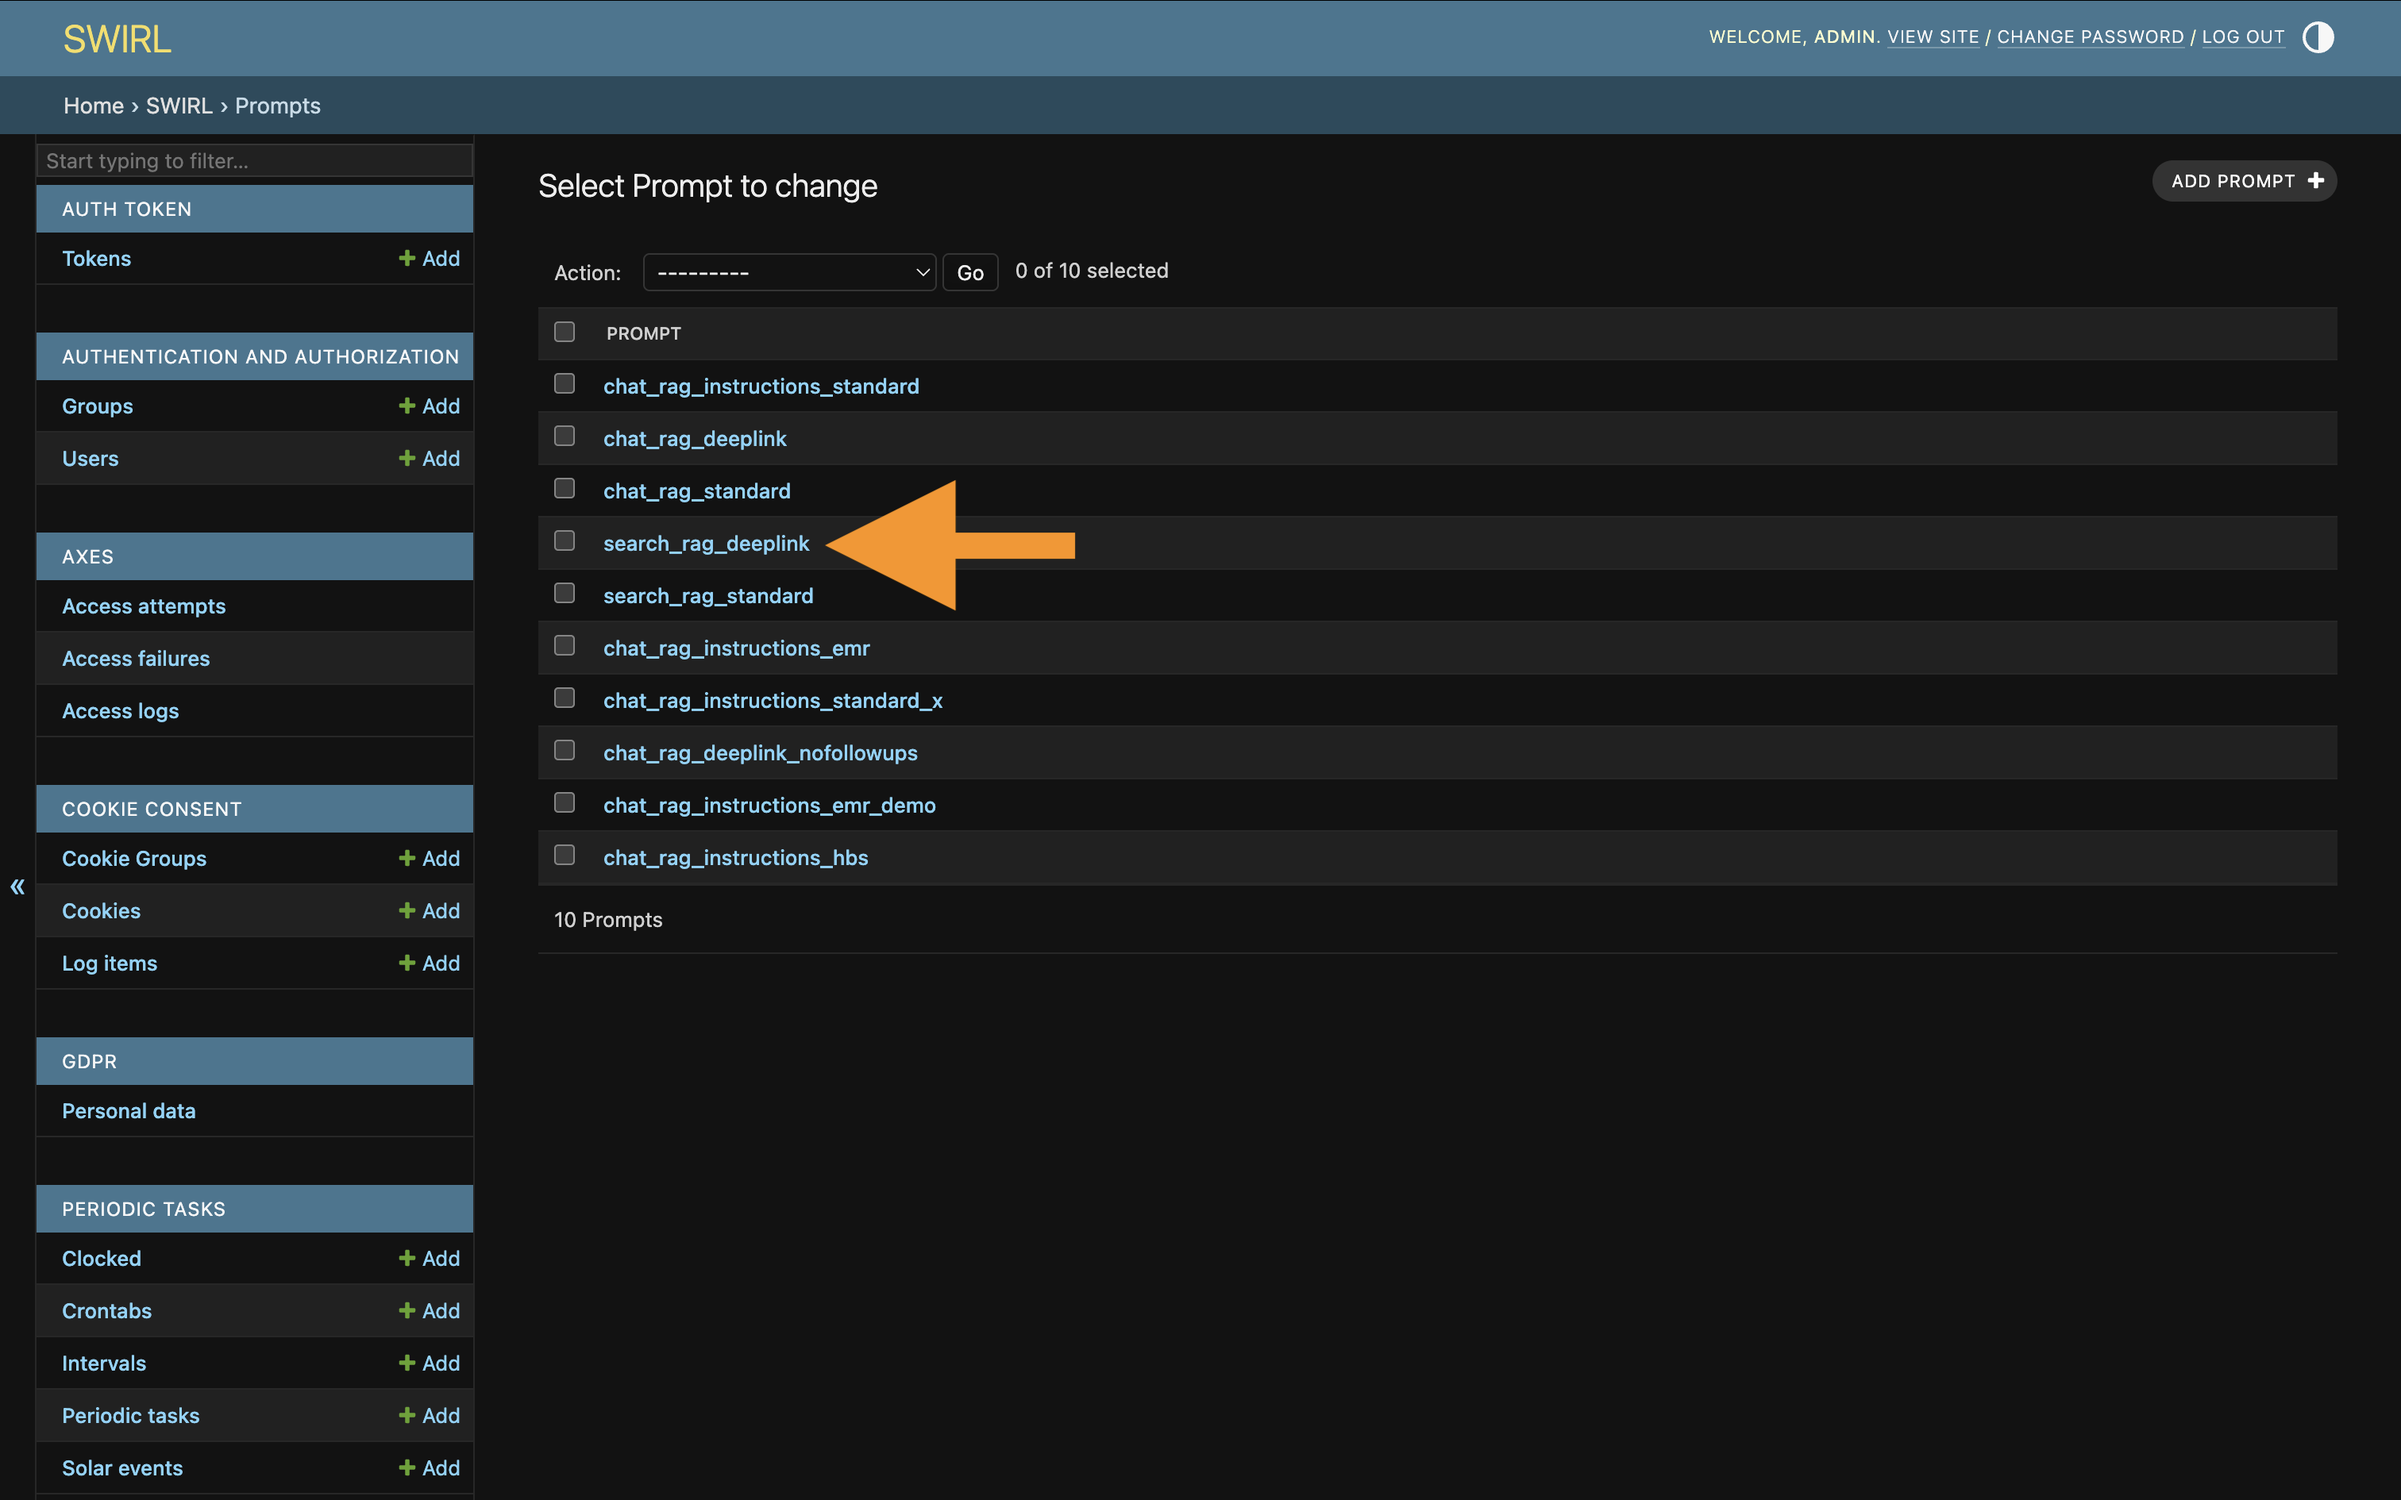
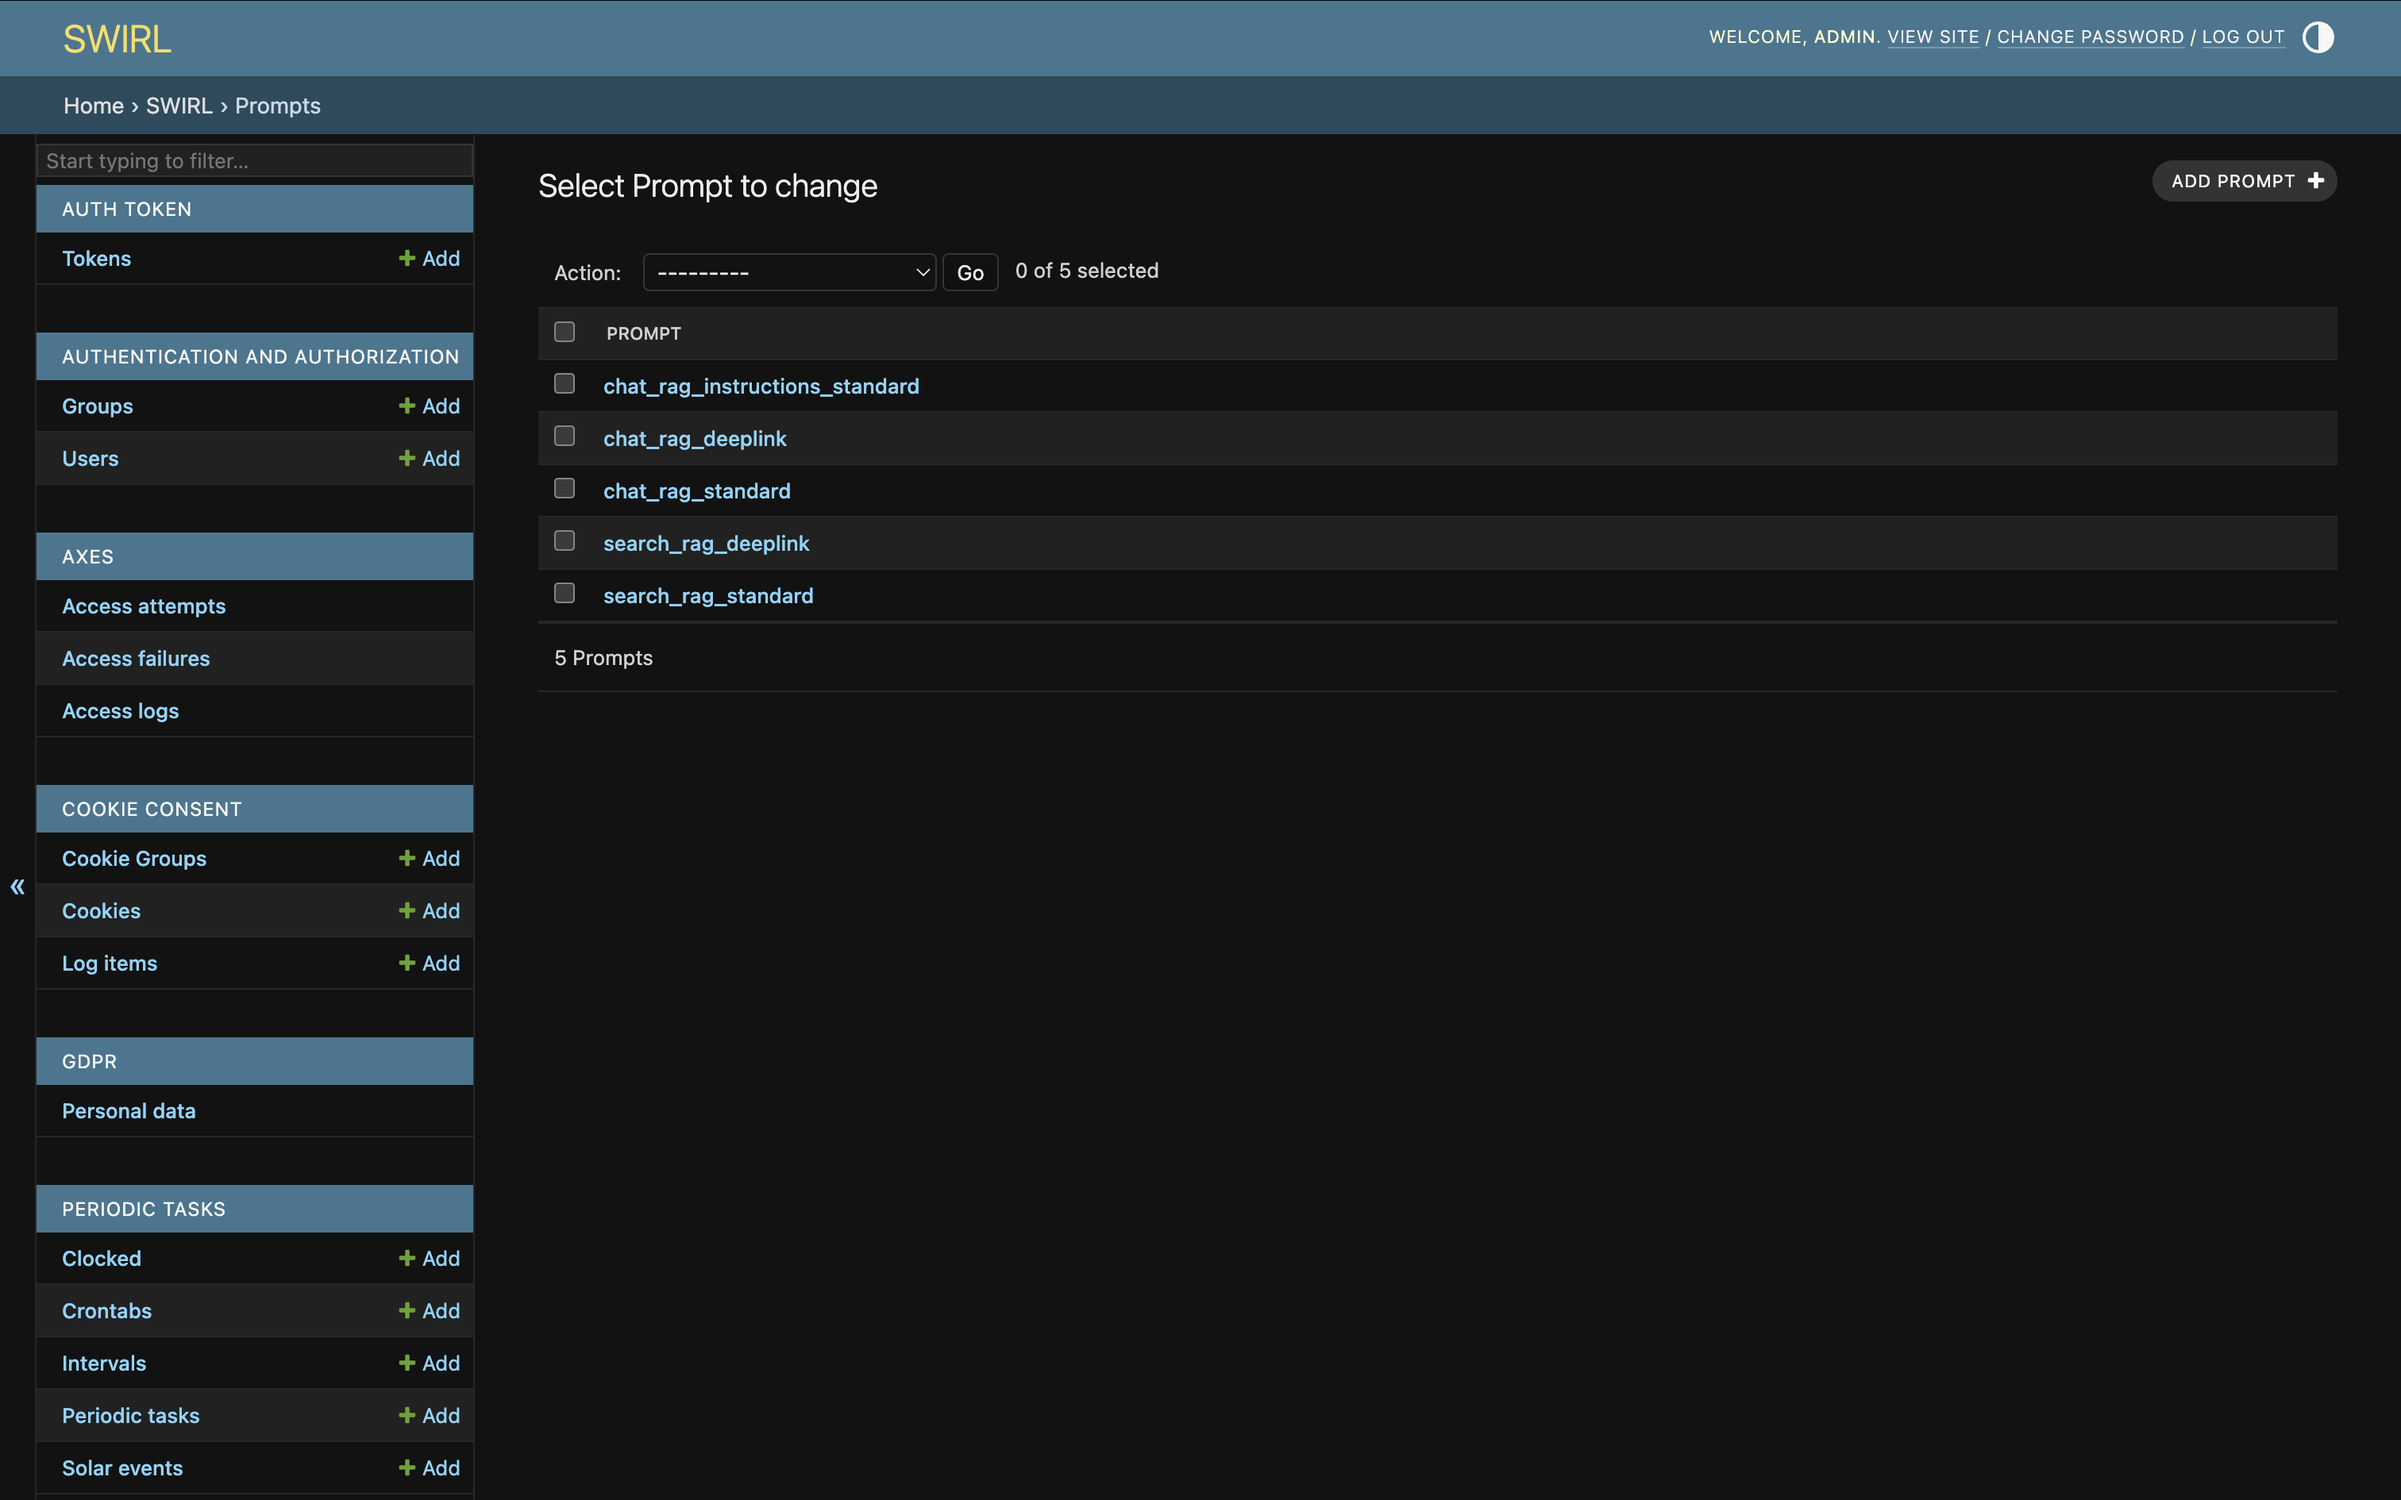
Use SWIRL console, revise prompts, minor edits DS-5337

diff --git a/docs/AI-Search.md b/docs/AI-Search.md
@@ -65,7 +65,19 @@ To connect SWIRL to your **Microsoft 365 (M365) tenant**, follow the instruction
 
 To integrate SWIRL with an Identity Provider (IDP) or Single Sign-On (SSO) system, you need to configure an **Authenticator object**.
 
-To manage authenticators, go to: [http://localhost:8000/swirl/aiproviders](http://localhost:8000/swirl/aiproviders) (default local installation).
+### Managing Authenticators
+
+Use the Admin Console to view, edit, add or delete authenticators, here: [http://localhost:8000/admin/swirl](http://localhost:8000/admin/swirl)
+
+![SWIRL Admin Console with Authenticators selected](images/swirl_admin_console_swirl_auth_selected.png)
+
+Click on "Authenticators" as shown to view the list of available ones, or add a new one:
+![SWIRL Admin Console, Authenticators list](images/swirl_admin_console_swirl_auth_list.png)
+
+Click any of the Authenticators shown in the list to view or edit it. For example, here's the default Microsoft authenticator:
+![SWIRL Admin Console, Authenticators list](images/swirl_admin_console_swirl_auth_microsoft.png)
+
+Click the "SAVE" button at the bottom of the page to commit changes. 
 
 **Authenticator Fields**
 
@@ -108,12 +120,10 @@ GAI/LLMs in SWIRL serve four distinct roles:
 
 ## Managing AI Providers
 
-To manage AI providers (view, edit, add, or delete), use the Admin Console: <http://localhost:8000/admin/>
+Use the Admin Console to view, add, edit or delete AI Providers, here: <http://localhost:8000/admin/swirl>
+![SWIRL Admin Console top level with AIProviders highlighted](images/swirl_admin_console_swirl_aip_selected.png)
 
-![SWIRL Admin Console top level with AIProviders highlighted](images/swirl_admin_console_aip.png)
-
-Click on AIProviders as shown above to access the full list:
-
+Click "AIProviders" as shown to access the full list:
 ![SWIRL Admin Console viewing list of AIProviders](images/swirl_admin_console_aip_list.png)
 
 ## Supported Generative AI (GAI) and LLMs
@@ -138,12 +148,10 @@ For assistance with any of these or additional models, please [contact support](
 
 ## Editing AI Providers
 
-From the Admin Console as shown above, click on an AIProvider to edit it:
-
+From the [Admin Console](http://localhost:8000/admin/swirl) as shown above, click "AIProviders" to view the list of all available providers. Then, click on a specific AIProvider to edit it:
 ![SWIRL Admin Console viewing list of AIProviders](images/swirl_admin_console_aip_list_selected.png)
 
 This will bring up an edit form:
-
 ![SWIRL Admin Console editing an AIProvider](images/swirl_admin_console_edit_aip.png)
 
 Click the "SAVE" button at the bottom of the page to commit changes you make. 
@@ -167,12 +175,10 @@ To switch the provider for a given role, use the `active` property. Only one AIP
 
 ### Via the Admin Console
 
-From the Admin Console, click on AIProviders as shown above. Then, click "Add AIProvider": 
-
+From the [Admin Console](http://localhost:8000/admin/swirl), click on AIProviders as shown above. Then, click "Add AIProvider": 
 ![Admin Console showing AIProvider list with Add button highlighted](images/swirl_admin_console_aip_add.png)
 
-This will bring up a blank form for a new AIProvider. 
-
+This will bring up a blank form for a new AIProvider:
 ![Admin Console showing new AIProvider form](images/swirl_admin_console_aip_new.png)
 
 Fill out the form and click the "SAVE" button at the bottom.
@@ -292,27 +298,29 @@ Use the [Customizing Prompts](#customizing-the-ai-search-rag-prompt) procedure, 
 The following procedure below below to copy the standard prompts, modify them, then make them active. 
 New prompts won't be disturbed when SWIRL upgrades.
 
-1. Open the [Admin Console]([http://localhost:8000/admin) and click `Prompts` near the bottom of the page:
-![SWIRL Admin Console showing list of prompts](images/swirl_admin_console_prompts_list.png)
+1. Open the Admin Console here: <http://localhost:8000/admin/swirl> 
 
-2. Click the `search_rag_standard` or, if using [Deep Linking](./User-Guide-Enterprise.md#deep-linked-citations) `search_rag_deeplink` prompt. 
+2. click `Prompts` near the bottom of the page:
+![SWIRL Admin Console showing list of prompts](images/swirl_admin_console_swirl_prompts_selected.png)
+
+3. Click the `search_rag_standard` or, if using [Deep Linking](./User-Guide-Enterprise.md#deep-linked-citations) `search_rag_deeplink` prompt. 
 ![SWIRL Admin Console showing list of prompts with one selected](images/swirl_admin_console_prompts_list_selected.png)
 
-3. Using the form, set `active` to `false`. Click the "SAVE" button at the bottom of the page.
+4. Using the form, set `active` to `false`. Click the "SAVE" button at the bottom of the page.
 ![SWIRL Admin Console showing prompt edit with save selected](images/swirl_admin_console_prompt_edit_save.png)
 
-4. Change the `name` of the prompt to something appropriate like `my_custom_prompt`. Click the "Save as new" button at the bottom of the page. 
+5. Change the `name` of the prompt to something appropriate like `my_custom_prompt`. Click the "Save as new" button at the bottom of the page. 
 
-5. Set the prompt to `active`. Click the "SAVE" button at the bottom of the page to save the new prompt.
+6. Set the prompt to `active`. Click the "SAVE" button at the bottom of the page to save the new prompt.
 
-6. If you don't wish to share this prompt with other users, set `shared` to `false`. 
+7. If you don't wish to share this prompt with other users, set `shared` to `false`. 
 
-7. Modify the `prompt`, `note` and/or `footer` as needed, while retaining all critical instructions. For example, to instruct the LLM to use pirate-speak:
+8. Modify the `prompt`, `note` and/or `footer` as needed, while retaining all critical instructions. For example, to instruct the LLM to use pirate-speak:
 ![SWIRL Admin Console showing prompt footer edited for pirate-speak](images/swirl_admin_console_prompt_pirate.png)
 
-8. Click "SAVE" at the bottom of the page to save changes. ![SWIRL Admin Console edit prompt save button selected](images/swirl_admin_console_prompt_edit_save.png)
+9. Click "SAVE" at the bottom of the page to save changes. ![SWIRL Admin Console edit prompt save button selected](images/swirl_admin_console_prompt_edit_save.png)
 
-9. Try the new prompt from the Galaxy Search form!
+10. Try the new prompt from the Galaxy Search form!
 
 ## Restoring Standard Prompts
 
